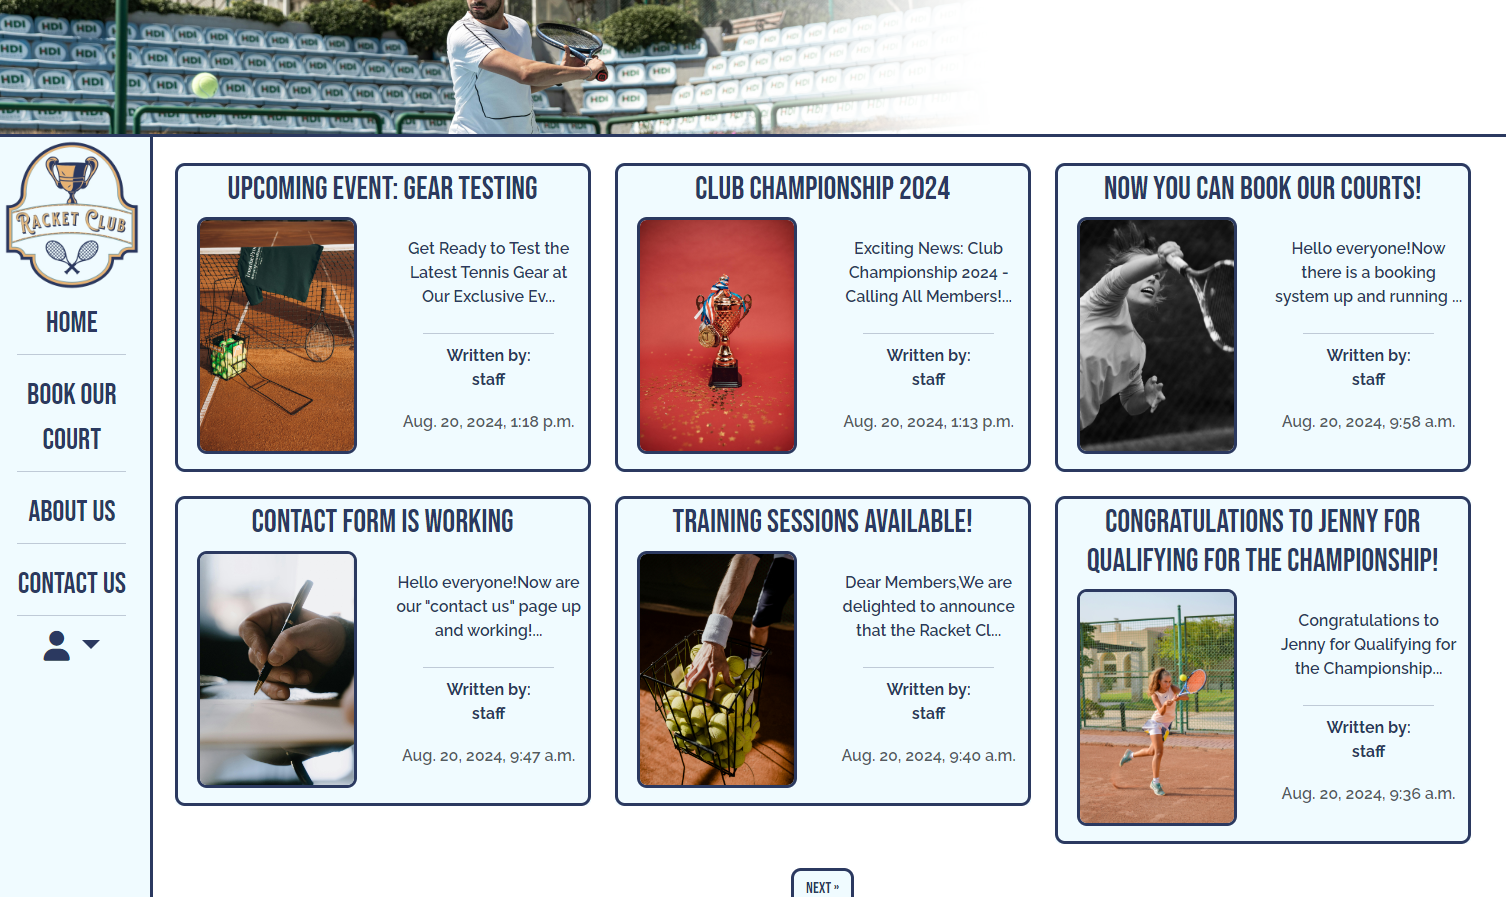
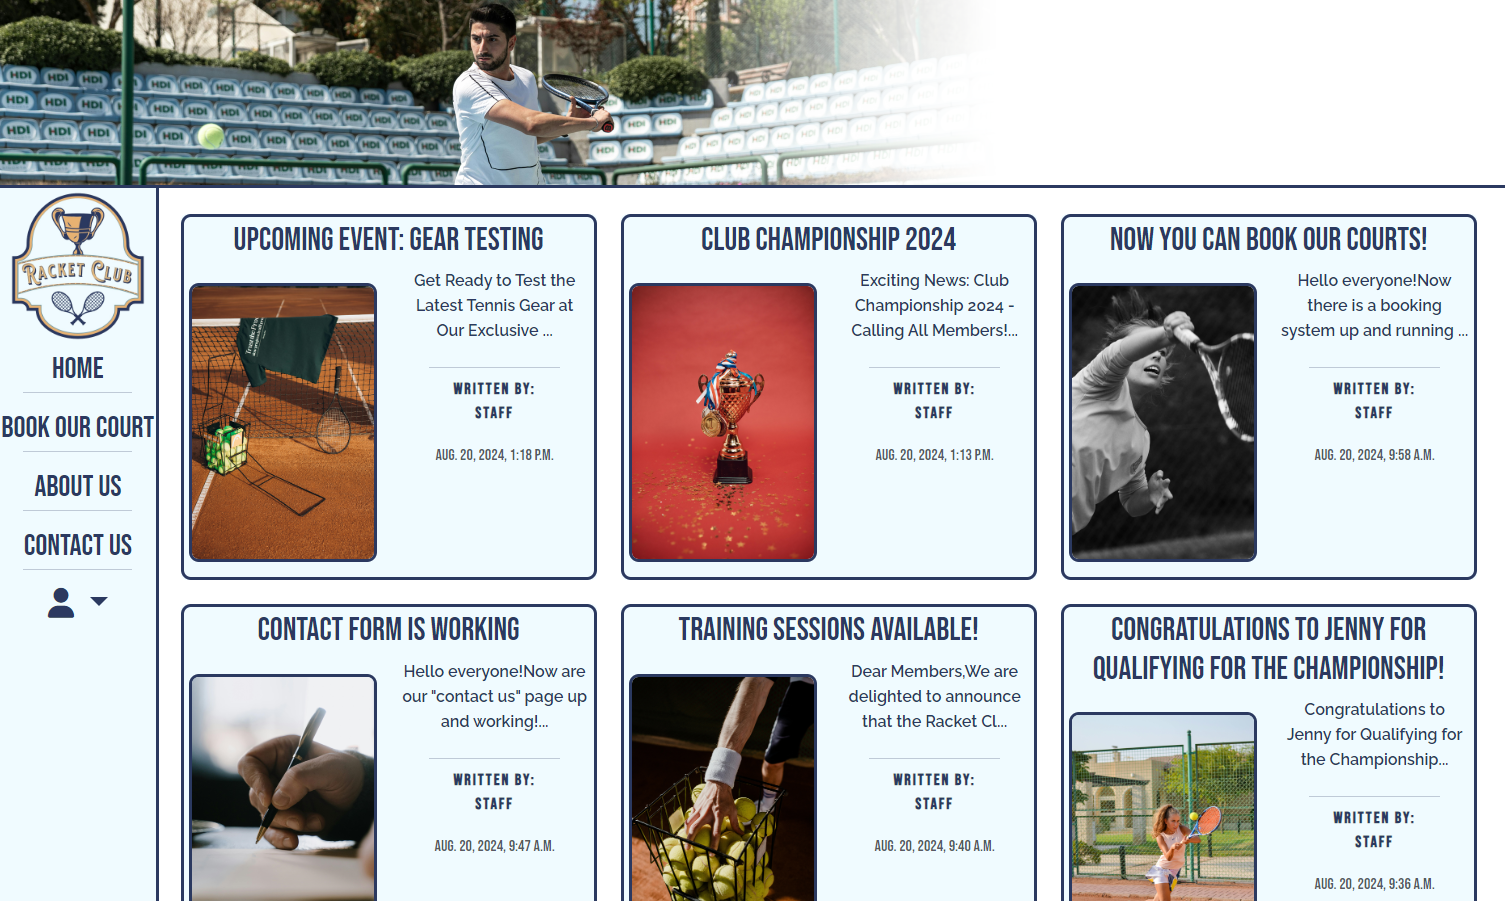
Fix: change image size
When going through the page, the images in the
articles took a lot of space of the smaller
screens. So fix that with changing the max width
in the css file.

diff --git a/static/css/style.css b/static/css/style.css
@@ -162,7 +162,7 @@ h1, h5, h4, .darkblue{
 }
 
 .card-img-top {
-    max-width: 400px;
+    max-width: 160px;
     margin-top: 15px;
 }
 
@@ -389,6 +389,9 @@ h1, h5, h4, .darkblue{
     .times {
         width: 500px;
         margin: 10px;
+    }
+    .card-img-top {
+        max-width: 400px;
     }
 }
 
